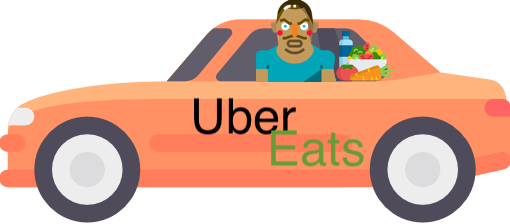
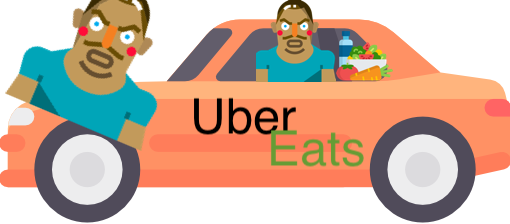
cuarto avance

Changed region(s): [[0.0, 0.0, 0.3235, 0.6875]]

diff --git a/main2.js b/main2.js
@@ -1,5 +1,5 @@
-const canvas = document.querySelector('canvas');
-const ctx = canvas.getContext('2d')
+const canvas2 = document.querySelector('canvas');
+const ctx2 = canvas.getContext('2d')
 
 
 const images = {
@@ -14,7 +14,7 @@ bg:
 let interval;
 let frames = 0;
 const obstacles = [];
-const users = [];
+const users =   [];
 const foods = [];
 let score = 0;
 let hp = 4
@@ -24,16 +24,16 @@ class Board {
   constructor() {
     this.x = 0;
     this.y = 0;
-    this.width = canvas.width;
-    this.height = canvas.height;
+    this.width = canvas2.width;
+    this.height = canvas2.height;
     this.img = new Image();
     this.img.src = images.bg;
   };
   draw() {
     this.x--;
-    if (this.x < -canvas.width) this.x = 0;
+    if (this.x < -canvas2.width) this.x = 0;
     ctx.drawImage(this.img, this.x, this.y, this.width, this.height);
-    ctx.drawImage(this.img, this.x + canvas.width, this.y, this.width, this.height);
+    ctx.drawImage(this.img, this.x + canvas2.width, this.y, this.width, this.height);
   }
 }
 
@@ -51,8 +51,8 @@ class Rappi {
     };
 
   draw() {
-    if (this.y > canvas.height - this.height ) { 
-      this.y = canvas.height - this.height
+    if (this.y > canvas2.height - this.height ) { 
+      this.y = canvas2.height - this.height
     } else {
       ctx.drawImage(this.img,(this.animate * 896) / 3, 0,  896 / 3,279,this.x,this.y,this.width,this.height
             );
@@ -91,7 +91,7 @@ class Rappi {
   moveDown() {
     this.y += 42
     
-    if (this.y >= canvas.height - this.height ) { 
+    if (this.y >= canvas2.height - this.height ) { 
       this.width = this.width + 0;
       this.height = this.height + 0;
       this.x -= 0;
@@ -129,7 +129,7 @@ function RappiAnimation() {
 
 class Obstacle {
   constructor(y) {
-    this.x = canvas.width + 50;
+    this.x = canvas2.width + 50;
     this.y = y;
     this.height = 80;
     this.width = 110;
@@ -147,8 +147,8 @@ class Obstacle {
           }
           this.animate++
           }
-        if (this.y >= canvas.height - this.height) { 
-          this.y = canvas.height - this.height - 12
+        if (this.y >= canvas2.height - this.height) { 
+          this.y = canvas2.height - this.height - 12
         } else {
           ctx.drawImage(this.img,(this.animate * 603) / 3, 0,  602 / 3,  121,this.x,this.y,this.width,this.height);
         }
@@ -165,7 +165,7 @@ class Obstacle {
 function generateObstacles(){
 
   if (frames % 100 === 0) {
-    const randomPosition = Math.floor(Math.random() * canvas.height) + 50
+    const randomPosition = Math.floor(Math.random() * canvas2.height) + 50
     const obs = new Obstacle(randomPosition)
     obstacles.push(obs)
   }
@@ -181,8 +181,8 @@ class Users {
     this.x = x;
     this.y = 147;
     this.animate = 0;
-    this.height = 70;
-    this.width = 40;
+    this.height = 60;
+    this.width = 30;
     this.img = new Image();
     this.img.src = "./images/mansprite.png";
     this.img.onload = () => {
@@ -205,7 +205,7 @@ class Users {
   
   function generateUsers (){
     if (frames % 80 === 0) {
-      const randomPosition = Math.floor(Math.random() * canvas.width) 
+      const randomPosition = Math.floor(Math.random() * canvas2.width) 
       const us = new Users(randomPosition)
       users.push(us)
     }
@@ -219,7 +219,7 @@ class Users {
   
   class Food {
     constructor(y) {
-      this.x = canvas.width ;
+      this.x = canvas2.width ;
       this.y = y;
       this.height = 45;
       this.width = 35;
@@ -239,8 +239,8 @@ class Users {
             }
             this.animate++
             }
-          if (this.y >= canvas.height - this.height) { 
-            this.y = canvas.height - this.height - 12
+          if (this.y >= canvas2.height - this.height) { 
+            this.y = canvas2.height - this.height - 12
           } else {
             ctx.drawImage(this.img,(this.animate * 640) / 4, 0,  640 / 4,  172,this.x,this.y,this.width,this.height
             );
@@ -271,12 +271,12 @@ class Users {
  
 
 window.onload = function() {
-  document.getElementById("start-button").onclick = function() {
+  document.getElementById("Player2").onclick = function() {
     start()
   }
 };
 function clearCanvas() {
-  ctx.clearRect(0, 0, canvas.width, canvas.height);
+  ctx.clearRect(0, 0, canvas2.width, canvas2.height);
 }
 
 class Healt {
@@ -350,7 +350,7 @@ function gameOver() {
     clearInterval(interval)
     ctx.font = '30px Arial'
     ctx.fillStyle = 'white'
-    ctx.fillText('Game Over', canvas.width / 2 - 30, canvas.height / 2 - 10)
+    ctx.fillText('Game Over', canvas2.width / 2 - 30, canvas2.height / 2 - 10)
     clearCanvas();
     console.log(score)
   }
@@ -360,14 +360,6 @@ function start() {
   if (interval) return;
   interval = setInterval(update, 1000 / 60);
 }
-
-// function restart() {
-//   interval = false;
-//   rappi.x = 30;
-//   rappi.y = 70;
-//   start();
-// }
-
 
 
 

diff --git a/index.html b/index.html
@@ -9,13 +9,18 @@
   <title>RappiGame</title>
 </head>
 <body >
-<img id="cajafondo" src="https://novaoficial.com/wp-content/uploads/2019/09/BACKGROUND-MOVIL.jpg" alt="">
-<div id="game-board" style="position: relative;">
-  <img id="rappilogo" src="http://margherita.mx/wp-content/uploads/2018/08/rappi-logo.png" alt="" style="width:10%">
-  <br>
-  <button id="start-button">RappiGame</button> 
-</div>
-<canvas width="800" height="450" class="canvas" style="position: relative; margin-left: 60px;margin-top: 32∫px;;"></canvas>
+  <img id="cajafondo" src="https://novaoficial.com/wp-content/uploads/2019/09/BACKGROUND-MOVIL.jpg" alt="">
+  <div id="game-board" style="position: relative;">
+      <img id="rappilogo" src="http://margherita.mx/wp-content/uploads/2018/08/rappi-logo.png" alt="" style="width:10%">
+      <br>
+      
+      
+      <button id="start-button">Player1</button> 
+      <button id="Player2">Player2</button> 
+    </div>
+    <img id="rappiamigo" src="https://abacolatam.com/dist/landing/images/rappi.svg" alt="">
+<canvas width="800" height="450" class="canvas" style="position: relative; margin-left: 60px;"></canvas>
 </body>
 <script type="text/javascript" src="main.js"></script>
+<script type="text/javascript" src="main2.js"></script>
 </html>

diff --git a/style.css b/style.css
@@ -18,7 +18,7 @@ body {
   }
 
   #rappilogo{
-    margin-top: 60px;
+    margin-top: 80px;
     display: block;
   }
   
@@ -28,7 +28,7 @@ body {
   }
   
   body button {
-    display: block;
+    display: inline;
     font-size: 20px;
     background-color: black;
     color: #fff;
@@ -36,8 +36,18 @@ body {
     border: 0;
     box-shadow: 0;
     border-radius: 5px;
-    margin-bottom: 20px;
-    margin-top: -100px;
-    margin-left: 550px;
+    
+    margin-left: 100px;
   }
   
+
+
+  #rappiamigo{
+    position: absolute;
+    text-align: center;
+    align-items: center;
+   width: 60%;
+   height: 60%;
+   margin-left: 100px;
+   transition: linear;
+  }
